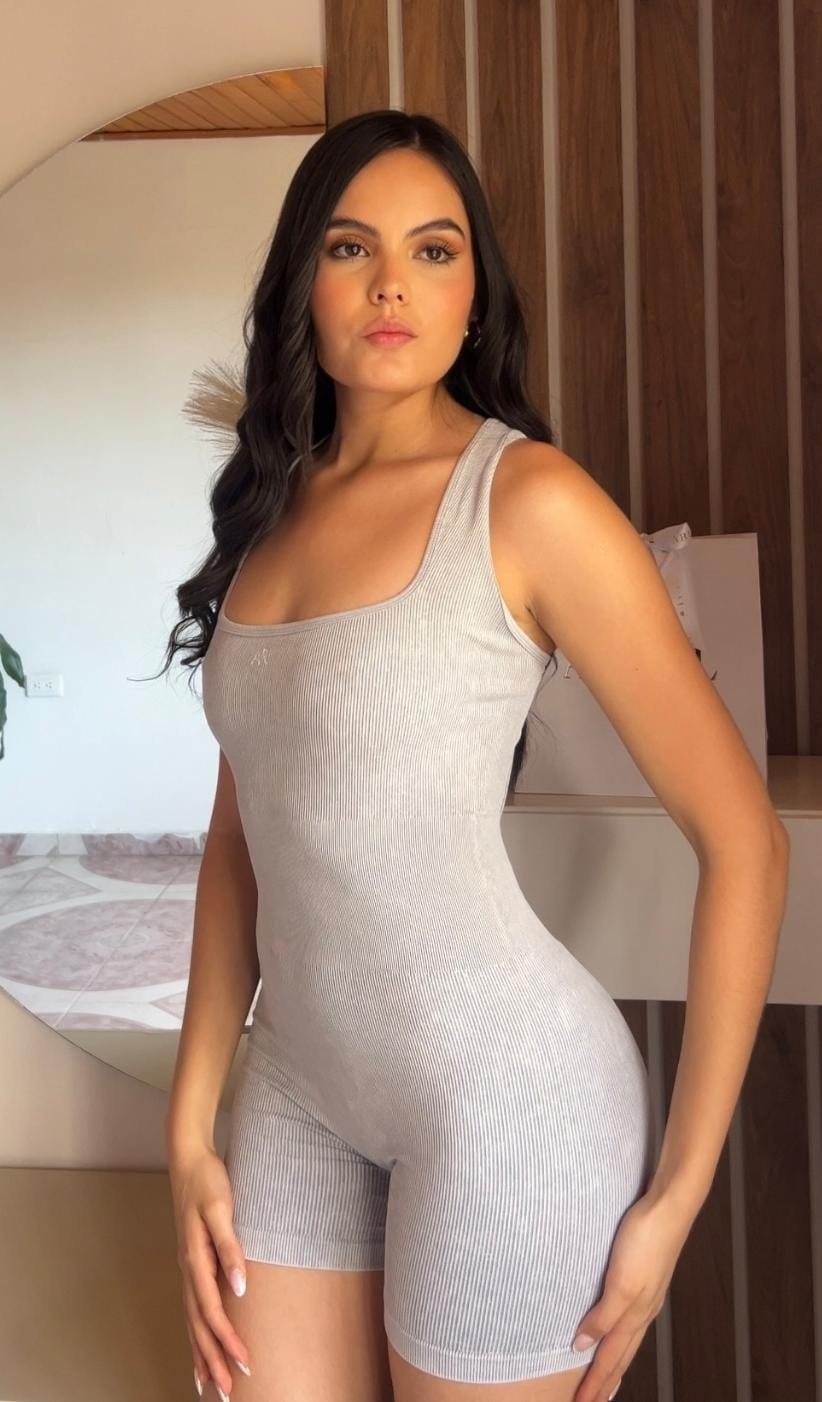
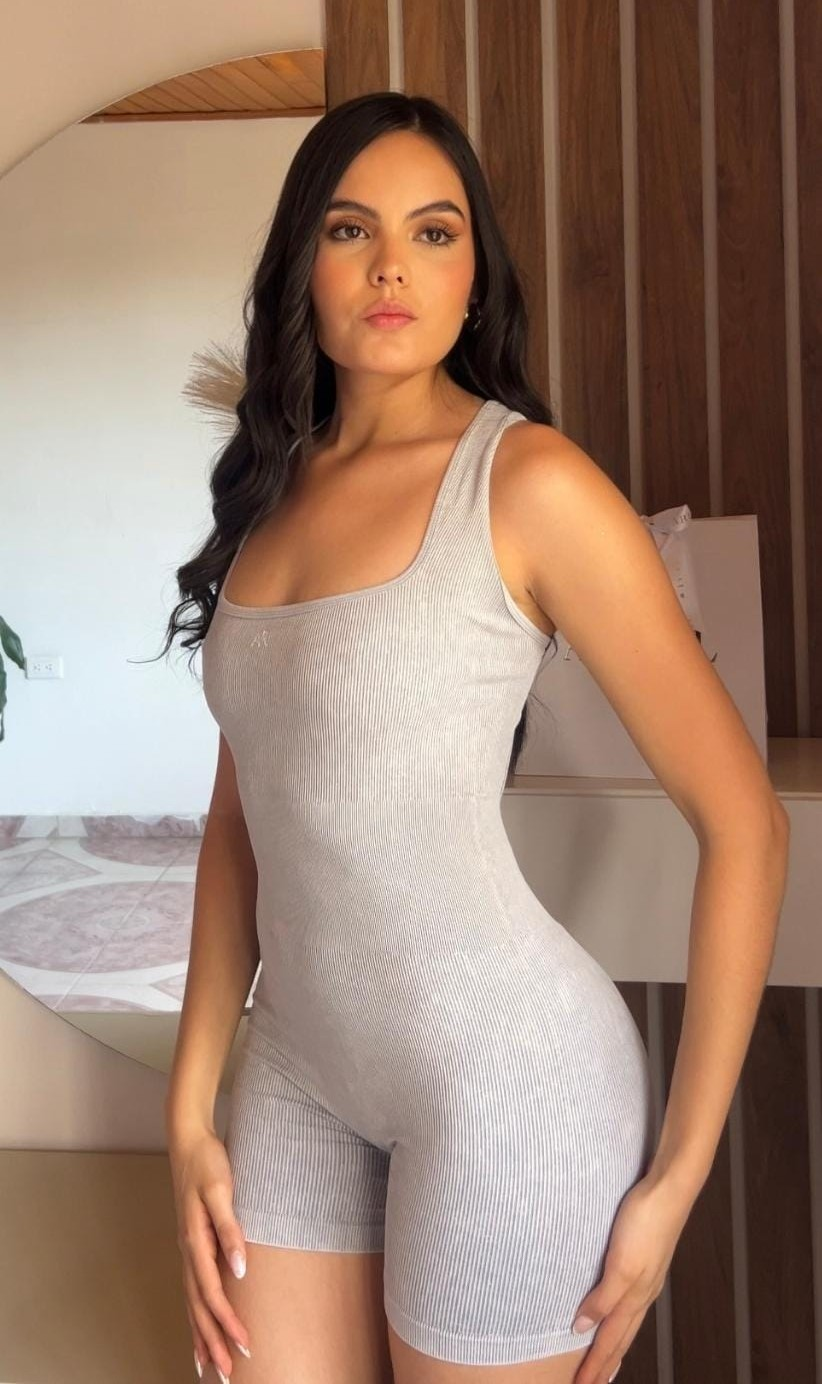
nuevos peroductos 155

diff --git a/src/Components/Assets/all_product.js b/src/Components/Assets/all_product.js
@@ -318,8 +318,8 @@ let all_product = [
     image2: enterizoalmagris2,
     image3: enterizoalmagris3,
     image4: enterizoalmagris4,
-    new_price: 120000,
-    old_price: 130000,
+    new_price: 90000,
+    old_price: 110000,
     sizes: {
       XS: false,
       S: true,
@@ -582,8 +582,8 @@ let all_product = [
     category: "enterizos",
     description:
       "Tela completamente acanalada, su efecto push up te hará lucir increible",
-    image: setcocogris1,
-    image2: setcocogris2,
+    image: setcocogris2,
+    image2: setcocogris1,
     image3: setcocogris3,
     image4: setcocogris4,
     new_price: 90000,
@@ -929,9 +929,9 @@ let all_product = [
     name: "ENTERIZO ELA - TONO GRIS",
     category: "enterizos",
     description: "Tela suave con acabados de la mejor calidad",
-    image: enterizoelagris1,
+    image: enterizoelagris3,
     image2: enterizoelagris2,
-    image3: enterizoelagris3,
+    image3: enterizoelagris1,
     image4: enterizoelagris4,
     new_price: 90000,
     old_price: 100000,
@@ -998,6 +998,25 @@ let all_product = [
       XS: false,
       S: true,
       M: true,
+      L: false,
+      XL: false,
+    },
+  },
+  {
+    id: 207,
+    name: "PANTALONETA SUMMER - TONO NEGRO",
+    category: "legginsyfaldas",
+    description: "Tela completamente acanalada",
+    image: pantalonetasummernegro1,
+    image2: pantalonetasummernegro2,
+    image3: pantalonetasummernegro3,
+    image4: pantalonetasummernegro4,
+    new_price: 50000,
+    old_price: 60000,
+    sizes: {
+      XS: false,
+      S: true,
+      M: false,
       L: false,
       XL: false,
     },
@@ -1099,25 +1118,7 @@ let all_product = [
   //     XL: false,
   //   },
   // },
-  {
-    id: 308,
-    name: "PANTALONETA SUMMER - TONO NEGRO",
-    category: "bodysytops",
-    description: "Tela completamente acanalada",
-    image: pantalonetasummernegro1,
-    image2: pantalonetasummernegro2,
-    image3: pantalonetasummernegro3,
-    image4: pantalonetasummernegro4,
-    new_price: 50000,
-    old_price: 60000,
-    sizes: {
-      XS: false,
-      S: true,
-      M: false,
-      L: false,
-      XL: false,
-    },
-  },
+  
 
 
   // ---------------------------- Categoria 4 SETS -----------------------------
